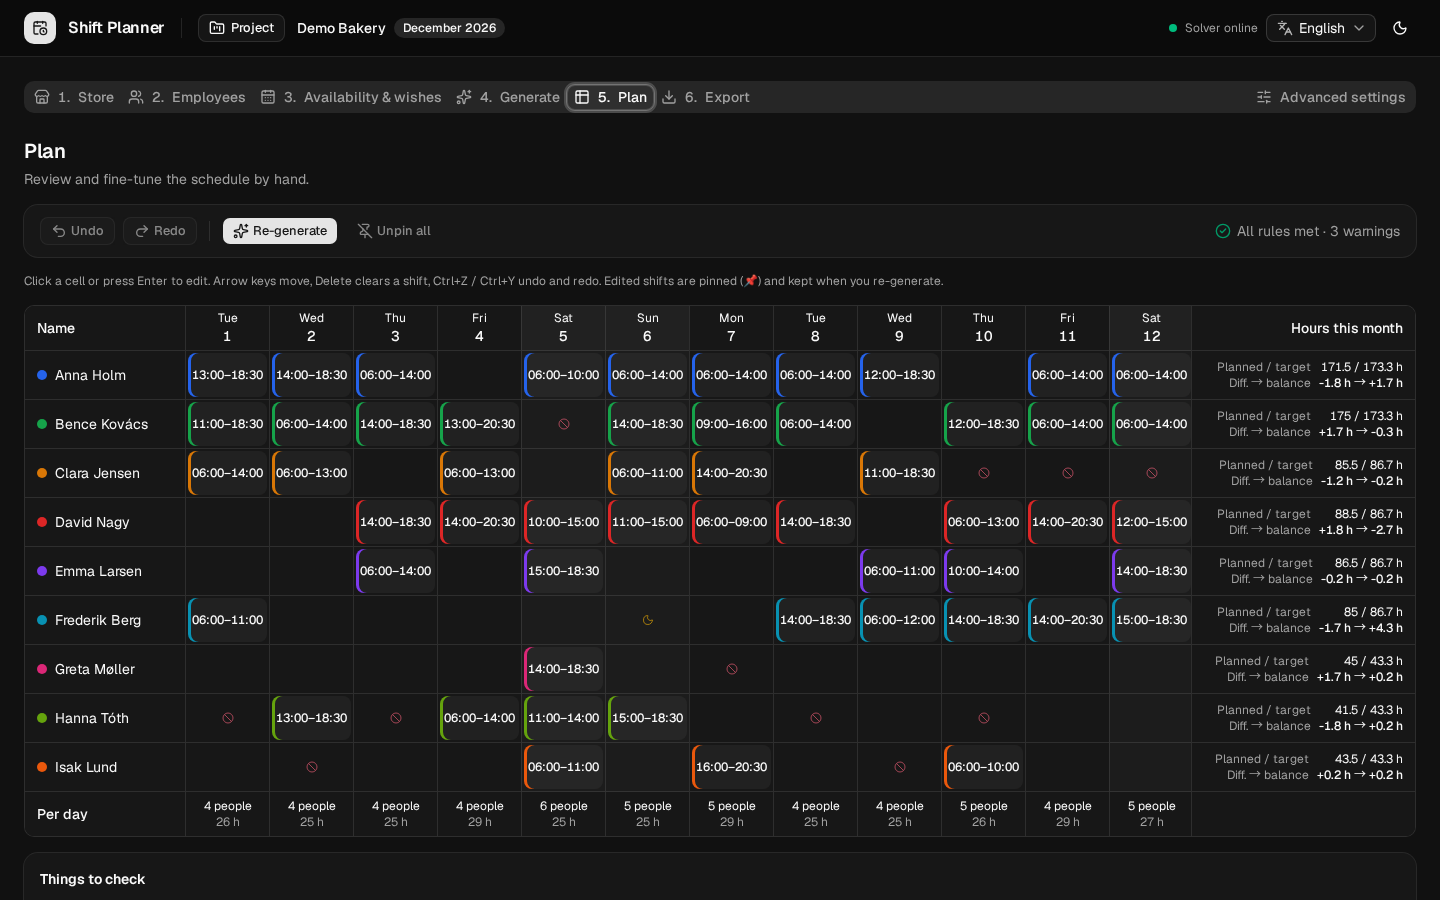
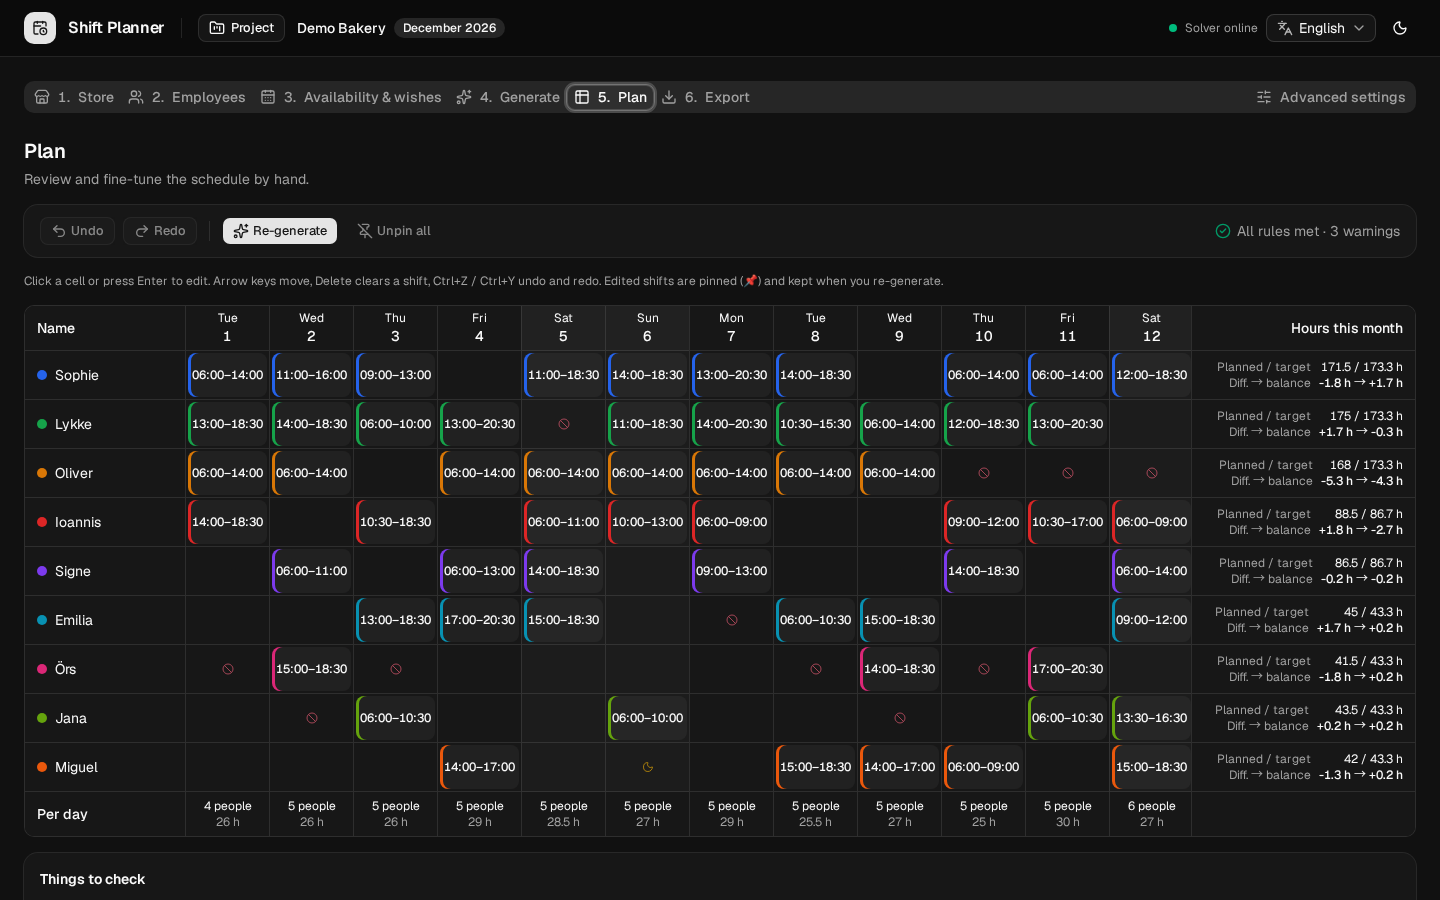
docs: describe the new demo team, refresh screenshots

diff --git a/README.md b/README.md
@@ -25,7 +25,8 @@ cd shift-planner
 docker compose up --build
 ```
 
-Open <http://localhost:8080> and click **Load demo project** to try it with a fictional team of nine. To use another
+Open <http://localhost:8080> and click **Load demo project** to try it with a fictional team of nine: three full-timers
+(Sophie, Lykke, Oliver), two part-timers (Ioannis, Signe) and four students (Emilia, Örs, Jana, Miguel). To use another
 port, set it first: `FRONTEND_PORT=9000 docker compose up`.
 
 ## Using Shift Planner
@@ -215,7 +216,7 @@ but only accepts plans that are at least as good on goals 1–3. Tie-breakers ne
 **If the rules can't all be met**, you get both:
 
 - **Diagnostics:** fast pre-checks, shown on the Generate step before you generate. For example: *"Sat 14 Feb:
-  too few people available at opening, 06:00 (available: 1, needed: 2). Unavailable: Bence."* **Errors** are certain
+  too few people available at opening, 06:00 (available: 1, needed: 2). Unavailable: Lykke."* **Errors** are certain
   impossibilities, and **warnings** are likely trouble. The checks cover:
   - people available at opening, at closing, in busy periods and at every moment
   - head count for long days
